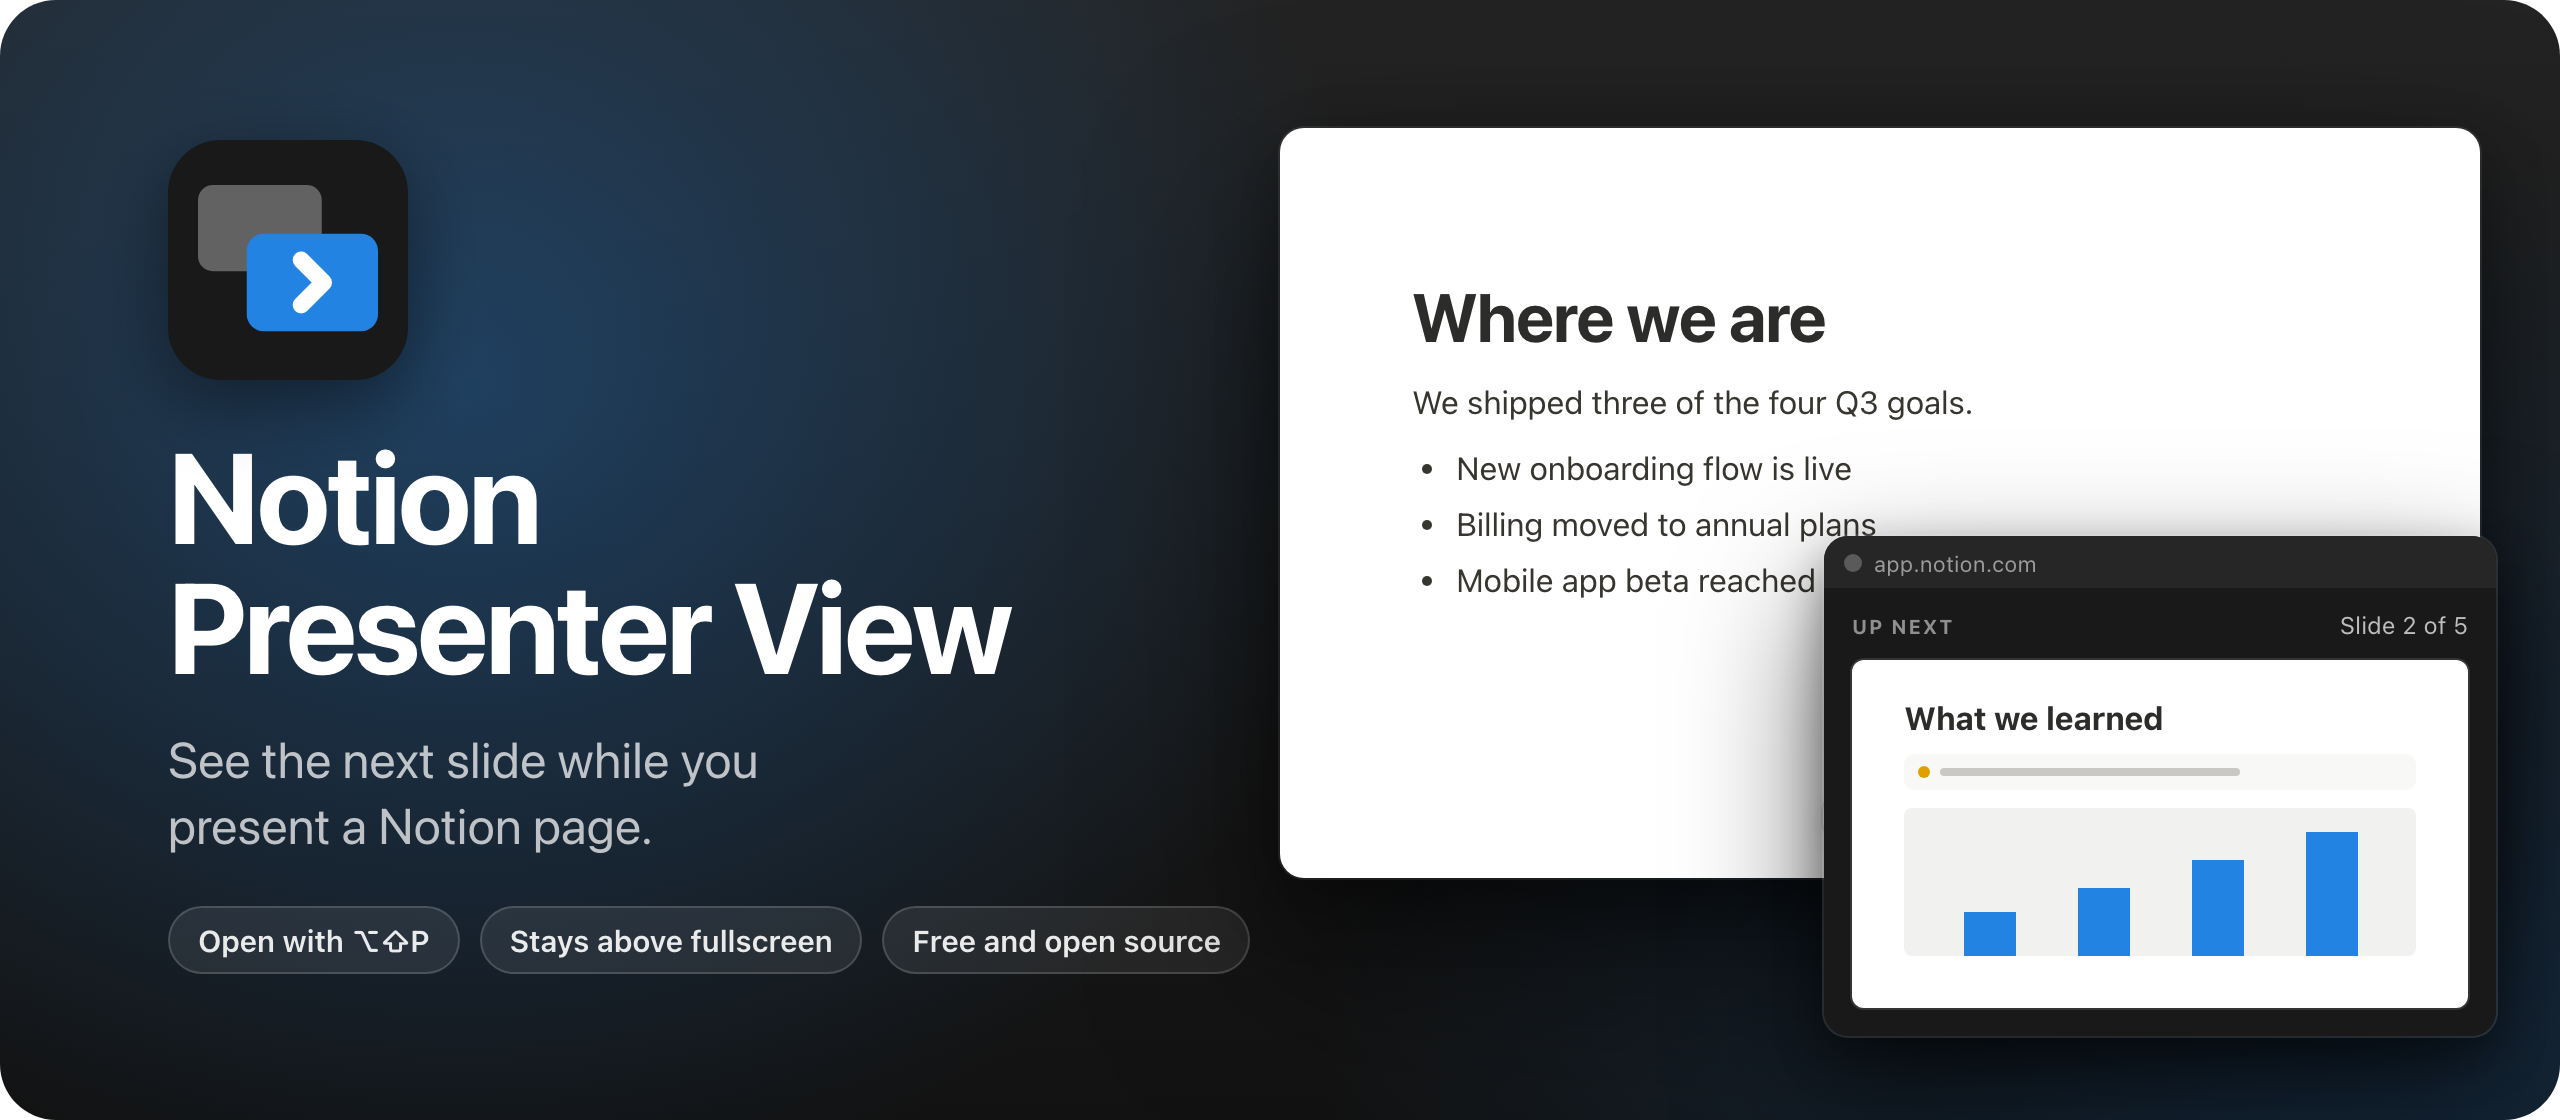
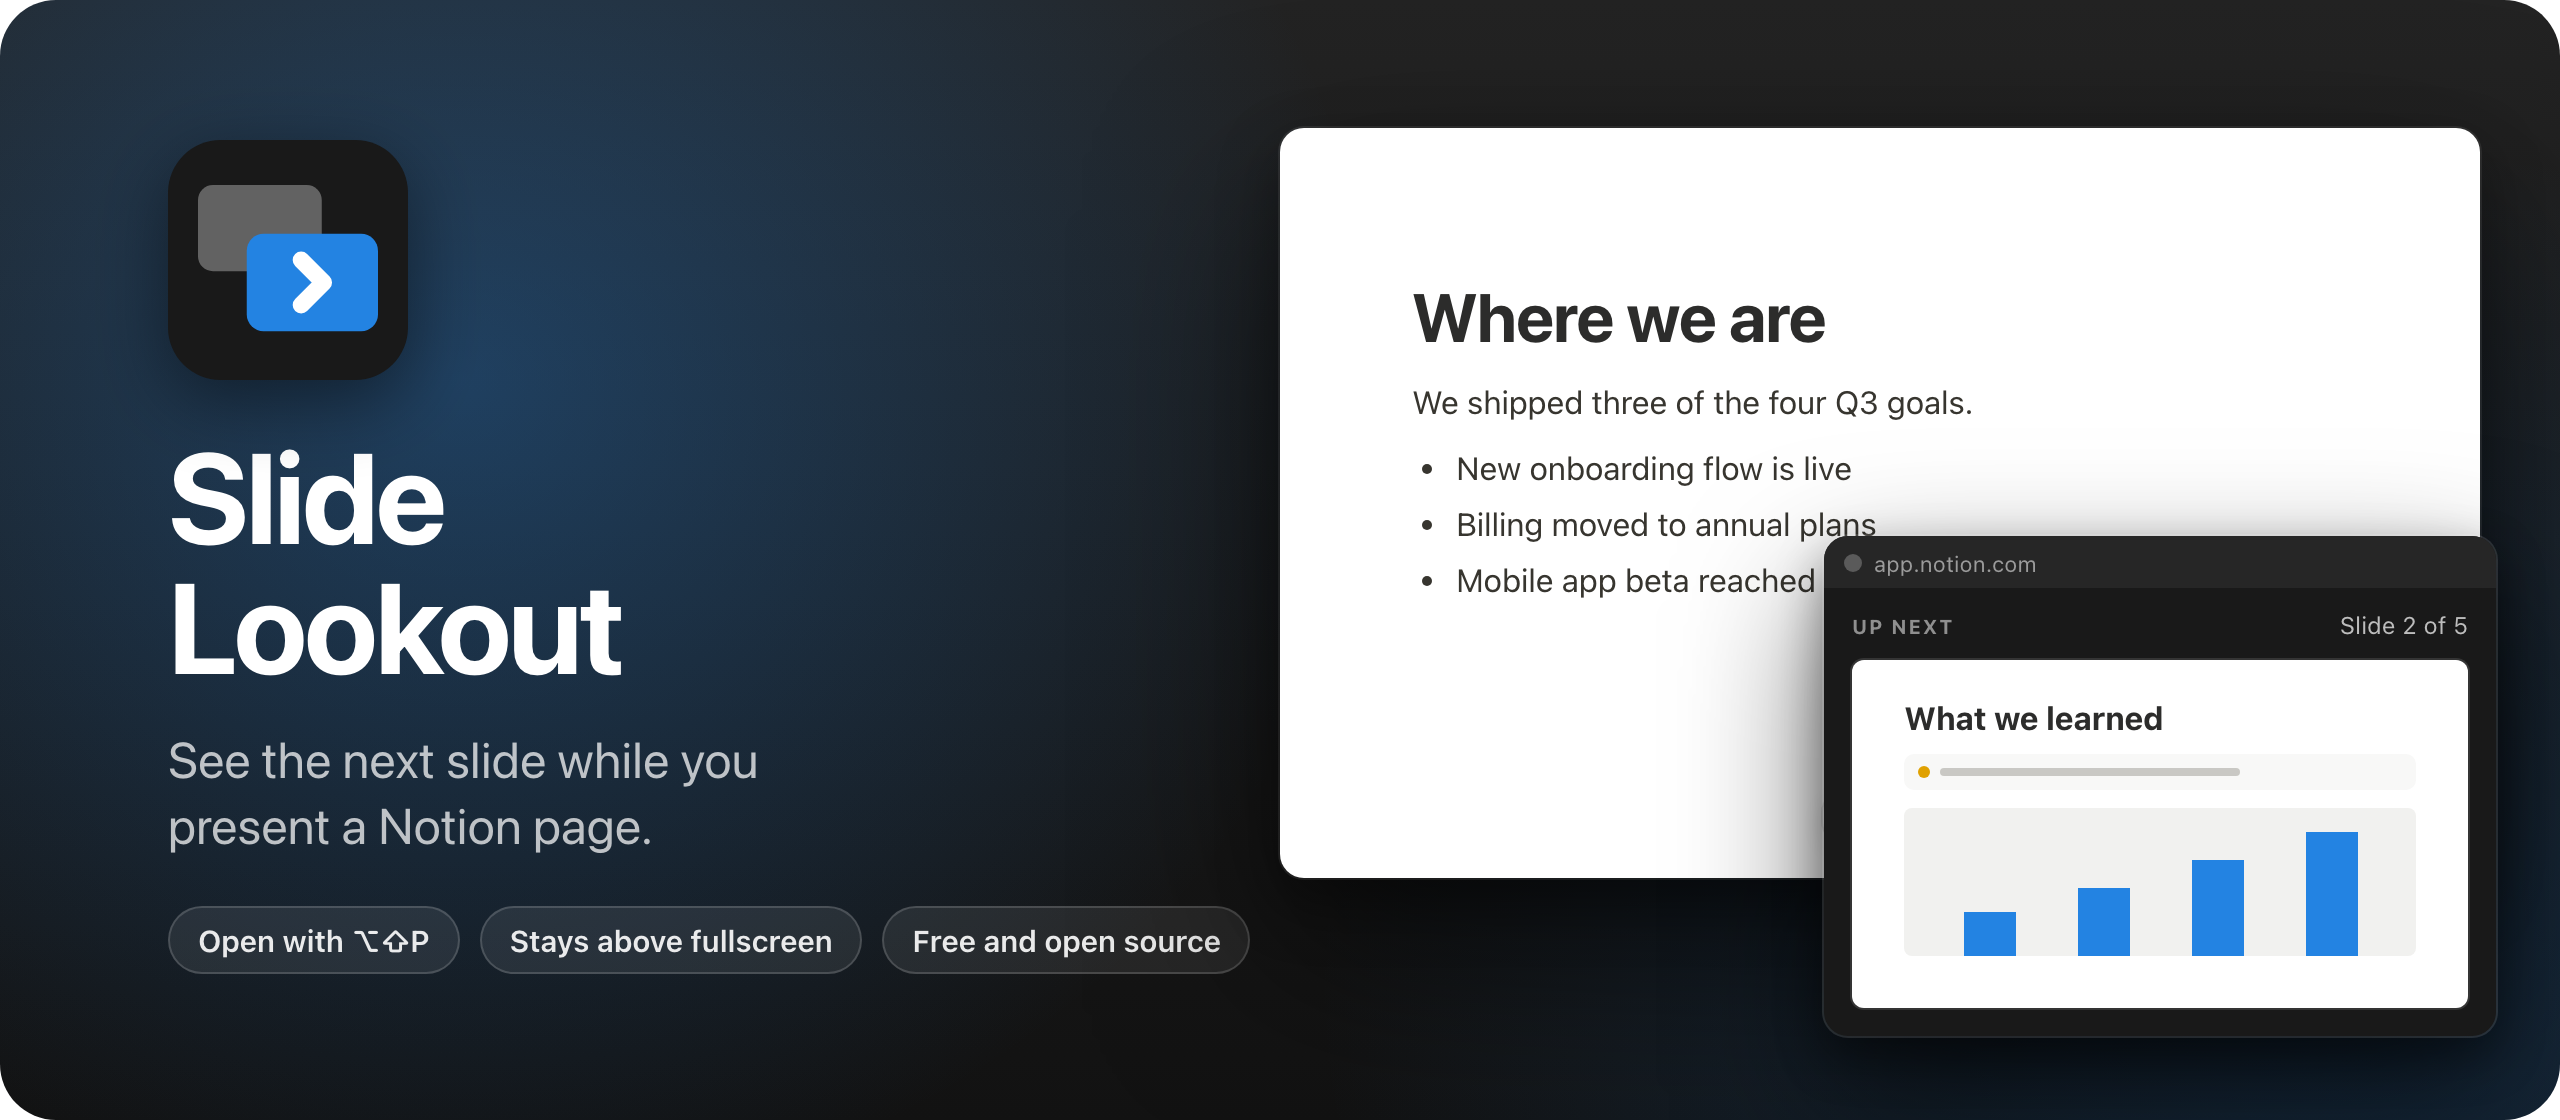
Rename app to Slide Lookout

Changed region(s): [[0.0625, 0.4062, 0.4062, 0.625]]

diff --git a/presenter.js b/presenter.js
@@ -139,7 +139,7 @@
   async function open() {
     if (opening) return
     if (!window.documentPictureInPicture) {
-      alert('Notion Presenter View needs Chrome 116 or later.')
+      alert('Slide Lookout needs Chrome 116 or later.')
       return
     }
 
@@ -152,7 +152,7 @@
         disallowReturnToOpener: true,
       })
     } catch (error) {
-      console.warn('Notion Presenter View: could not open the panel.', error)
+      console.warn('Slide Lookout: could not open the panel.', error)
       return
     } finally {
       opening = false

diff --git a/scripts/banner.html b/scripts/banner.html
@@ -63,7 +63,7 @@
 <div class="banner">
   <div class="intro">
     <img src="../icons/icon.svg" alt="">
-    <h1>Notion<br>Presenter View</h1>
+    <h1>Slide<br>Lookout</h1>
     <p>See the next slide while you<br>present a Notion page.</p>
     <div class="chips"><span>Open with ⌥⇧P</span><span>Stays above fullscreen</span><span>Free and open source</span></div>
   </div>

diff --git a/background.js b/background.js
@@ -14,5 +14,5 @@ chrome.action.onClicked.addListener((tab) => {
       world: 'MAIN',
       files: ['presenter.js', 'toggle.js'],
     })
-    .catch((error) => console.warn('Notion Presenter View:', error))
+    .catch((error) => console.warn('Slide Lookout:', error))
 })

diff --git a/README.md b/README.md
@@ -1,28 +1,28 @@
-<img src="docs/banner.png" alt="Notion Presenter View, a Chrome extension that shows the next slide of a Notion presentation" />
+<img src="docs/banner.png" alt="Slide Lookout, a Chrome extension that shows the next slide of a Notion presentation" />
 
-Notion Presenter View is a Chrome extension that shows the next slide of a Notion presentation in a small floating window. The window stays on top of the fullscreen slides, so you always know what's coming.
+Slide Lookout is a Chrome extension that shows the next slide of a Notion presentation in a small floating window. The window stays on top of the fullscreen slides, so you always know what's coming.
 
 Notion's presentation mode turns a page into slides, split at each divider. You see exactly what the audience sees, one slide at a time. There's no presenter view with the next slide, like Keynote and PowerPoint have, so this extension adds one.
 
-Read the announcement and watch the 30-second demo on my blog: [I built Notion Presenter View, a Chrome extension that shows your next slide](https://flaviocopes.com/notion-presenter-view/).
+Read the announcement and watch the 30-second demo on my blog: [I built Slide Lookout, a Chrome extension that shows your next slide](https://flaviocopes.com/slide-lookout/).
 
-[![Watch the 30-second Notion Presenter View demo](docs/showreel-poster.jpg)](https://flaviocopes.com/notion-presenter-view/)
+[![Watch the 30-second Slide Lookout demo](docs/showreel-poster.jpg)](https://flaviocopes.com/slide-lookout/)
 
 ## Install
 
-Notion Presenter View isn't on the Chrome Web Store, so you load it into Chrome yourself. It takes a minute.
+Slide Lookout isn't on the Chrome Web Store, so you load it into Chrome yourself. It takes a minute.
 
-1. Get `Notion-Presenter-View-1.1.0.zip` from the [latest release](https://github.com/flaviocopes/notion-presenter-view/releases/latest) and unzip it.
-2. Move the `Notion-Presenter-View-1.1.0` folder somewhere it can stay, like your Documents folder. Chrome runs the extension from that folder, so if you delete it, the extension is gone.
+1. Get `Slide-Lookout-1.2.0.zip` from the [latest release](https://github.com/flaviocopes/slide-lookout/releases/latest) and unzip it.
+2. Move the `Slide-Lookout-1.2.0` folder somewhere it can stay, like your Documents folder. Chrome runs the extension from that folder, so if you delete it, the extension is gone.
 3. Open `chrome://extensions` and turn on **Developer mode** in the top right corner.
 4. Click **Load unpacked** and pick that folder.
-5. Click the puzzle icon in the toolbar and pin Notion Presenter View, so it's one click away.
+5. Click the puzzle icon in the toolbar and pin Slide Lookout, so it's one click away.
 
 It needs Chrome 116 or later, and Notion in the browser. Notion's desktop app isn't Chrome, so the extension can't run there.
 
 ### Updates
 
-An extension you load this way doesn't update on its own. When there's a new release, unzip it and copy its files into your Notion Presenter View folder, replacing the old ones. Then click the reload arrow on its card in `chrome://extensions`. Since the folder is the same, Chrome keeps your shortcut and the pinned button.
+An extension you load this way doesn't update on its own. When there's a new release, unzip it and copy its files into your Slide Lookout folder, replacing the old ones. Then click the reload arrow on its card in `chrome://extensions`. Since the folder is the same, Chrome keeps your shortcut and the pinned button.
 
 To hear about new versions, click **Watch** on this repo, then **Custom** and **Releases**.
 
@@ -66,7 +66,7 @@ With a projector, set it up as a second display, put the slides on the projector
 
 ## Privacy
 
-Notion Presenter View runs on Notion pages only: `notion.so`, `notion.com` and `notion.site`. It needs them to show the **Open presenter view** button while you present, so when you install it, Chrome says it can "read and change your data" on those sites. It also asks for `activeTab` and `scripting`, which let the shortcut and the toolbar button open the panel.
+Slide Lookout runs on Notion pages only: `notion.so`, `notion.com` and `notion.site`. It needs them to show the **Open presenter view** button while you present, so when you install it, Chrome says it can "read and change your data" on those sites. It also asks for `activeTab` and `scripting`, which let the shortcut and the toolbar button open the panel.
 
 It reads the slides Notion already has in the page and adds the corner button. It doesn't change your pages, it never goes online, and there are no accounts or analytics.
 
@@ -82,7 +82,7 @@ To make the release zip, run:
 scripts/build-release.sh
 ```
 
-It copies the extension files into `dist/Notion-Presenter-View-<version>.zip` and prints its SHA-256. The same commit always gives the same zip, so you can check that a release matches its tag.
+It copies the extension files into `dist/Slide-Lookout-<version>.zip` and prints its SHA-256. The same commit always gives the same zip, so you can check that a release matches its tag.
 
 ## Development
 

diff --git a/AGENTS.md b/AGENTS.md
@@ -1,4 +1,4 @@
-# Notion Presenter View
+# Slide Lookout
 
 A Chrome extension that shows the next slide of a Notion presentation in an always-on-top Document Picture-in-Picture window. It's plain JavaScript with no build step.
 
@@ -11,7 +11,7 @@ A Chrome extension that shows the next slide of a Notion presentation in an alwa
 - `icons/`: `icon.svg` is the source, and `scripts/icons.mjs` renders the PNGs.
 - `test/mock-notion.html`: a stand-in for a Notion page in presentation mode, copied from the markup of Notion's `PagePresentationMode` chunk.
 - `test/run.mjs`: loads the extension into Playwright's Chromium, serves the mock at `app.notion.com` and checks a whole presentation.
-- `scripts/build-release.sh`: zips the extension into `dist/Notion-Presenter-View-<version>.zip`.
+- `scripts/build-release.sh`: zips the extension into `dist/Slide-Lookout-<version>.zip`.
 - `scripts/banner.html` and `scripts/render-banner.mjs`: the README banner, rendered to `docs/banner.png`.
 
 ## Build and run
@@ -21,7 +21,7 @@ npm install                          # Playwright, for the test, the banner and 
 npx playwright install chromium      # the browser they run in
 npm test                             # a whole presentation on the mock page, screenshots in test/screenshots
 node test/run.mjs <folder>           # the same test on another copy, like an unzipped release
-scripts/build-release.sh             # dist/Notion-Presenter-View-<version>.zip and its SHA-256
+scripts/build-release.sh             # dist/Slide-Lookout-<version>.zip and its SHA-256
 npm run banner                       # docs/banner.png at 2x
 npm run icons                        # icons/icon-*.png from icons/icon.svg
 ```
@@ -38,4 +38,4 @@ To try a change in your own Chrome, open `chrome://extensions`, turn on Develope
 - Don't add sites beyond Notion's three domains. The content script runs on them only to show the corner button, and every extra site adds to the warning Chrome shows at install.
 - Headless Chromium keeps every tab visible and focused, so the test fakes `document.hidden` and `hasFocus()` to check that the panel closes when you leave. Check real tab and app switches by hand, including starting fullscreen with the panel open: focus can flicker during the macOS fullscreen animation, which is why `checkStillHere` waits after a fullscreen change.
 - The version in `manifest.json` and `package.json` must equal the release tag without the `v`. Releases attach the zip from `scripts/build-release.sh`, built from the tagged commit.
-- The showreel video lives on flaviocopes.com, not in this repo. A local copy at `/notion-presenter-view-showreel.mp4` is ignored by git.
+- The showreel video lives on flaviocopes.com, not in this repo. A local copy at `/slide-lookout-showreel.mp4` is ignored by git.
